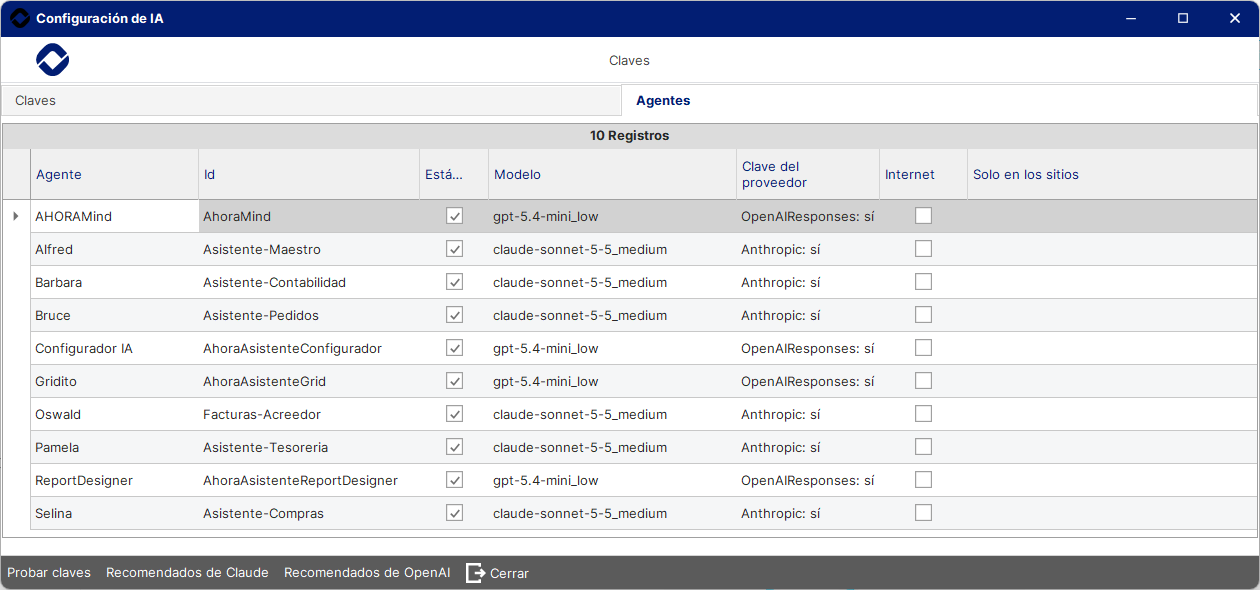
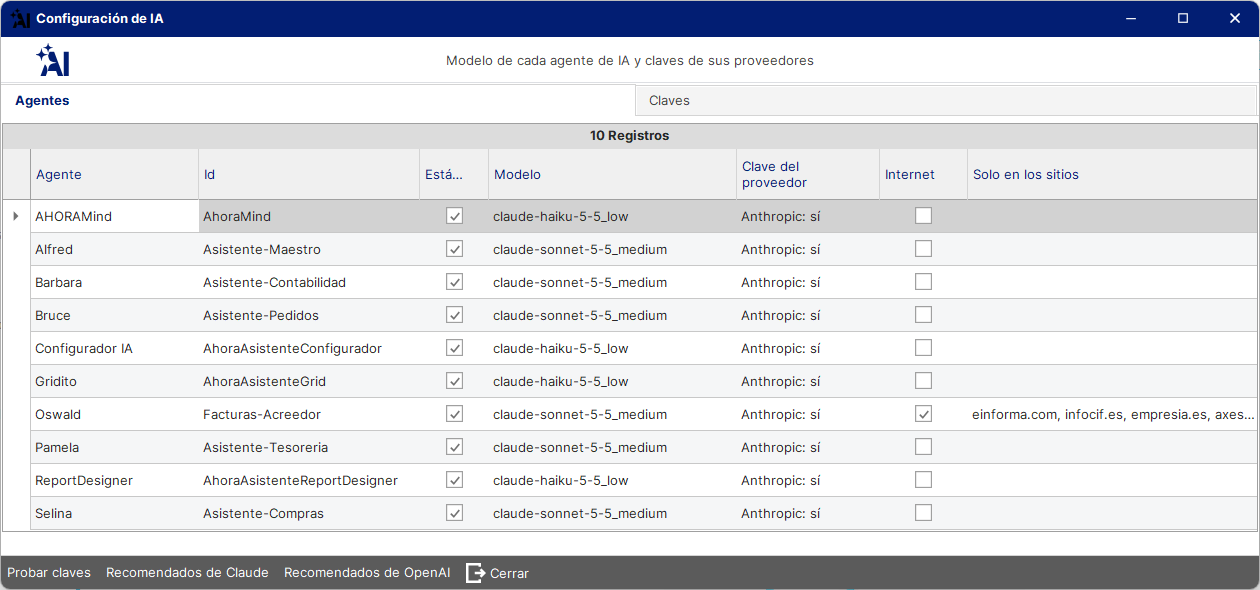
Agentes IA: Configuración de IA con la pestaña de modelos primero y capturas con los valores de una instalación nueva

diff --git a/Template/docs/AgentesIA/Modelos.es.md b/Template/docs/AgentesIA/Modelos.es.md
@@ -25,18 +25,18 @@ Todo lo que hace falta para empezar está en una sola pantalla: **Administració
 
 Tiene dos pestañas:
 
-- **Claves**: la clave de cada proveedor y, si se usa, la dirección de la pasarela de Anthropic.
 - **Agentes**: todos los agentes, también los estándar y los asistentes de las pantallas, con su modelo, si pueden buscar en Internet y si está puesta la clave de su proveedor.
+- **Claves**: la clave de cada proveedor y, si se usa, la dirección de la pasarela de Anthropic.
 
-![Configuración de IA: las claves de los proveedores](../docs_assets/images/AgentesIA/configuracion-ia-claves.png)
+![Configuración de IA: el modelo de cada agente](../docs_assets/images/AgentesIA/configuracion-ia-agentes.png)
 
-Para empezar a usar la IA:
+En una instalación nueva todos los agentes vienen ya con Claude, como en la imagen, así que basta con poner la clave de Anthropic. Para empezar a usar la IA:
 
 1. En **Claves**, escribe la clave de tu proveedor.
 2. Pulsa **Probar claves**. El ERP pregunta al proveedor si la clave vale, sin ningún coste.
-3. Pulsa **Recomendados de Claude** o **Recomendados de OpenAI**, según el proveedor que uses. Los agentes estándar pasan a los modelos recomendados de ese proveedor; tus agentes propios no se tocan.
+3. Si trabajas con OpenAI, pulsa **Recomendados de OpenAI**: los agentes estándar pasan a sus modelos recomendados. **Recomendados de Claude** los devuelve a los de Claude. Tus agentes propios no se tocan.
 
-![Configuración de IA: el modelo de cada agente](../docs_assets/images/AgentesIA/configuracion-ia-agentes.png)
+![Configuración de IA: las claves de los proveedores](../docs_assets/images/AgentesIA/configuracion-ia-claves.png)
 
 Los cambios valen al momento, sin reiniciar el ERP.
 

diff --git a/Template/docs/AgentesIA/Modelos.en.md b/Template/docs/AgentesIA/Modelos.en.md
@@ -25,18 +25,18 @@ Everything you need to get started is on a single screen: **Administración > Co
 
 It has two tabs:
 
-- **Claves** (Keys): each provider's key and, if you use one, the address of the Anthropic gateway.
 - **Agentes** (Agents): every agent, including the standard ones and the screen assistants, with its model, whether it can search the Internet and whether its provider's key is set.
+- **Claves** (Keys): each provider's key and, if you use one, the address of the Anthropic gateway.
 
-![AI configuration: the providers' keys](../docs_assets/images/AgentesIA/configuracion-ia-claves.png)
+![AI configuration: each agent's model](../docs_assets/images/AgentesIA/configuracion-ia-agentes.png)
 
-To start using AI:
+In a new installation every agent already comes with Claude, as in the image, so you only need to enter the Anthropic key. To start using AI:
 
 1. In **Claves**, enter your provider's key.
 2. Click **Probar claves** (Test keys). The ERP asks the provider whether the key works, at no cost.
-3. Click **Recomendados de Claude** or **Recomendados de OpenAI** (Recommended for Claude / for OpenAI), depending on your provider. The standard agents switch to that provider's recommended models; your own agents are left untouched.
+3. If you work with OpenAI, click **Recomendados de OpenAI** (Recommended for OpenAI): the standard agents switch to its recommended models. **Recomendados de Claude** switches them back to Claude's. Your own agents are left untouched.
 
-![AI configuration: each agent's model](../docs_assets/images/AgentesIA/configuracion-ia-agentes.png)
+![AI configuration: the providers' keys](../docs_assets/images/AgentesIA/configuracion-ia-claves.png)
 
 Changes take effect immediately, without restarting the ERP.
 
